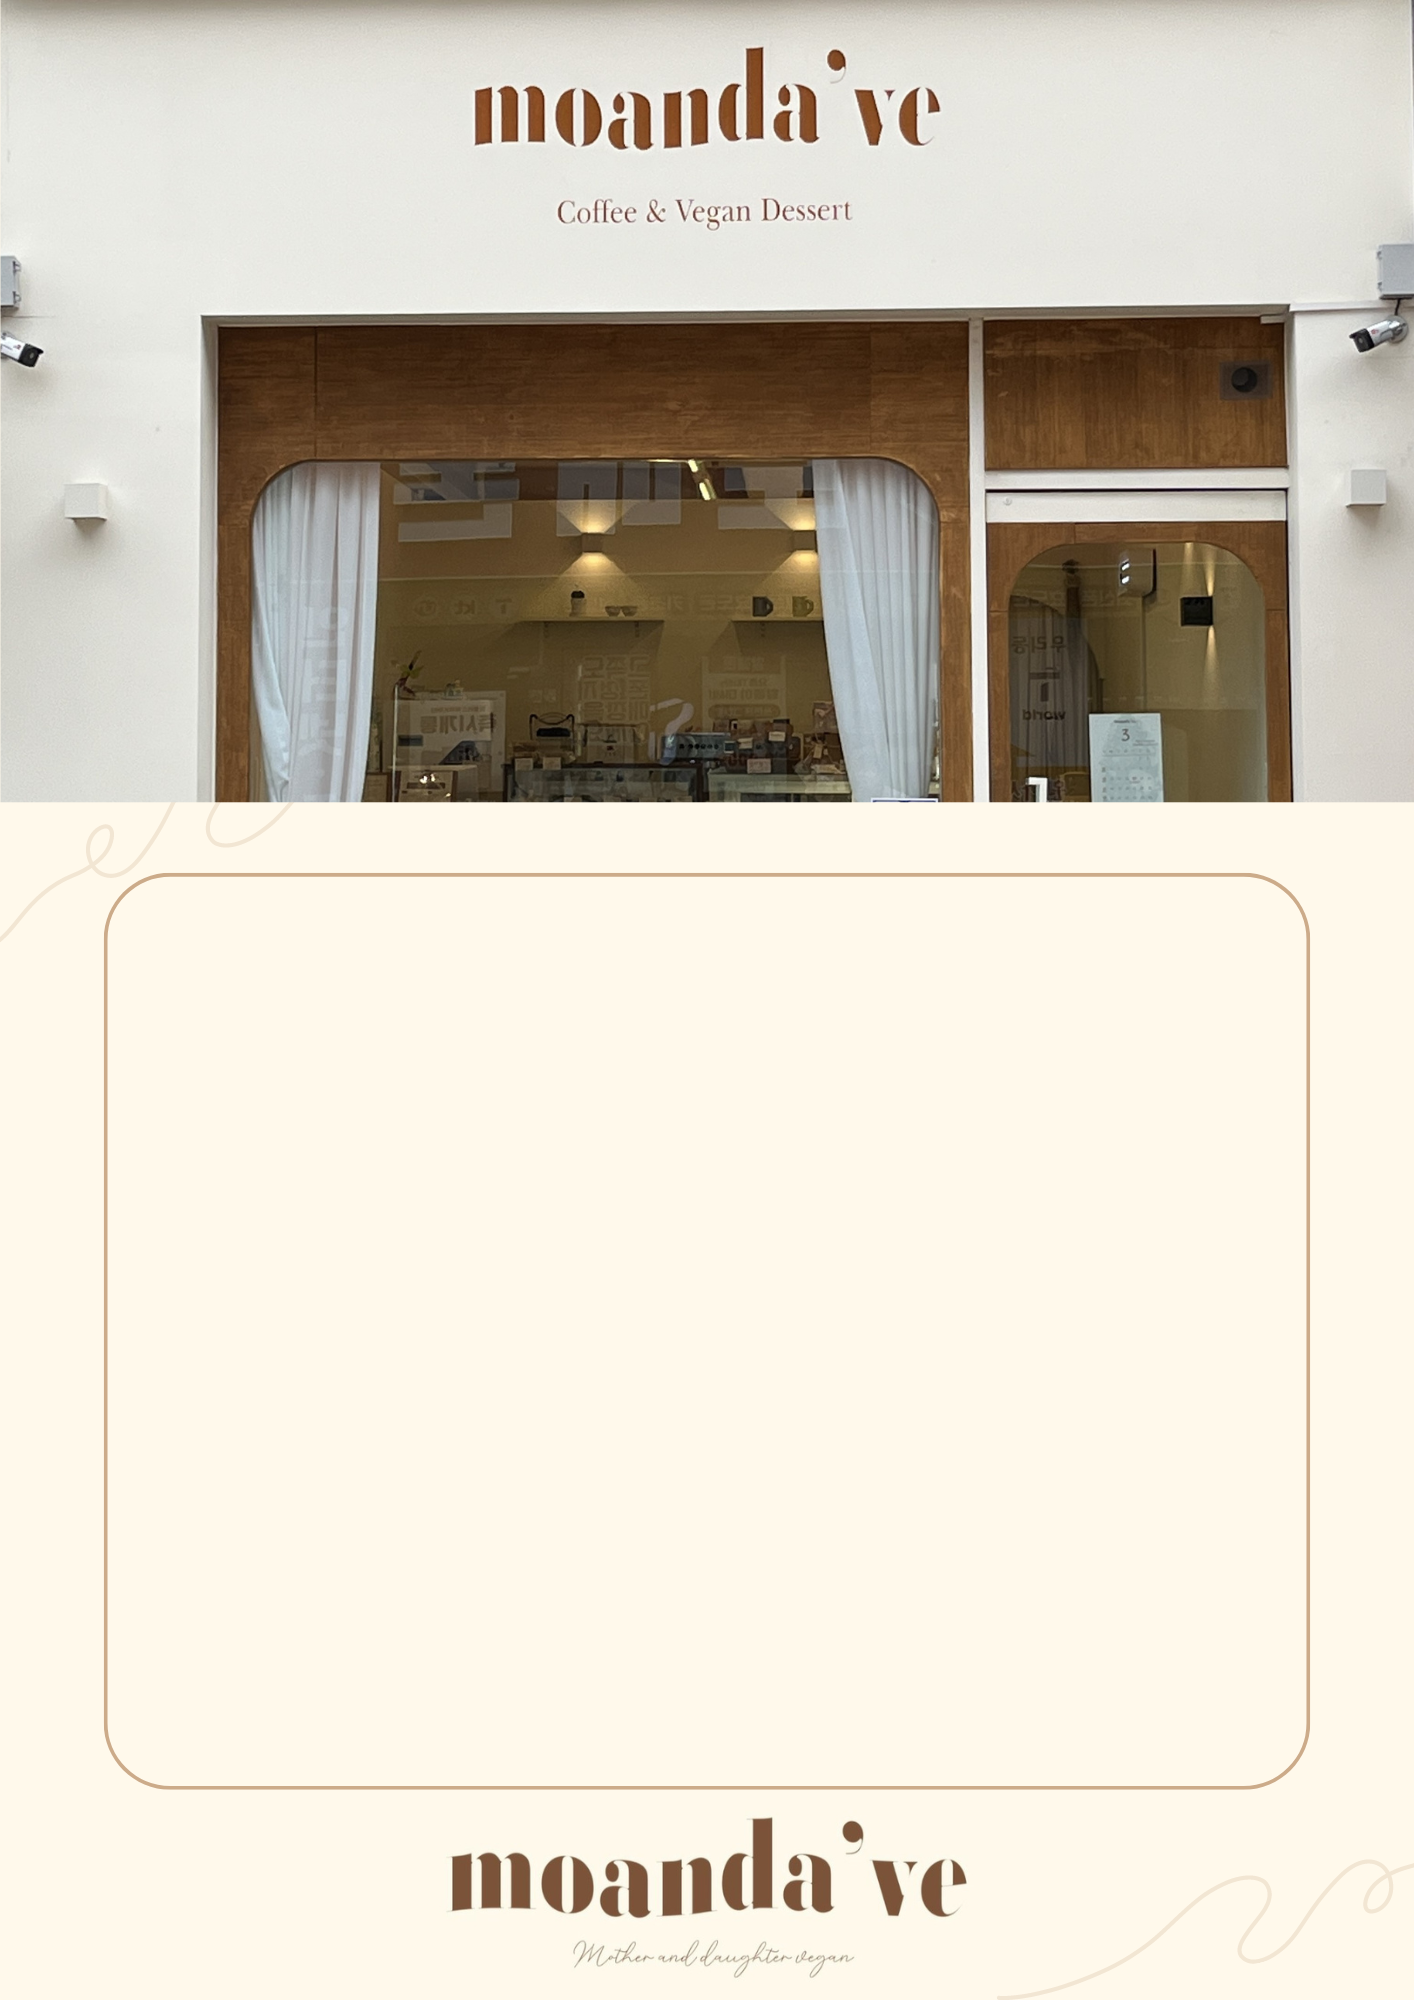
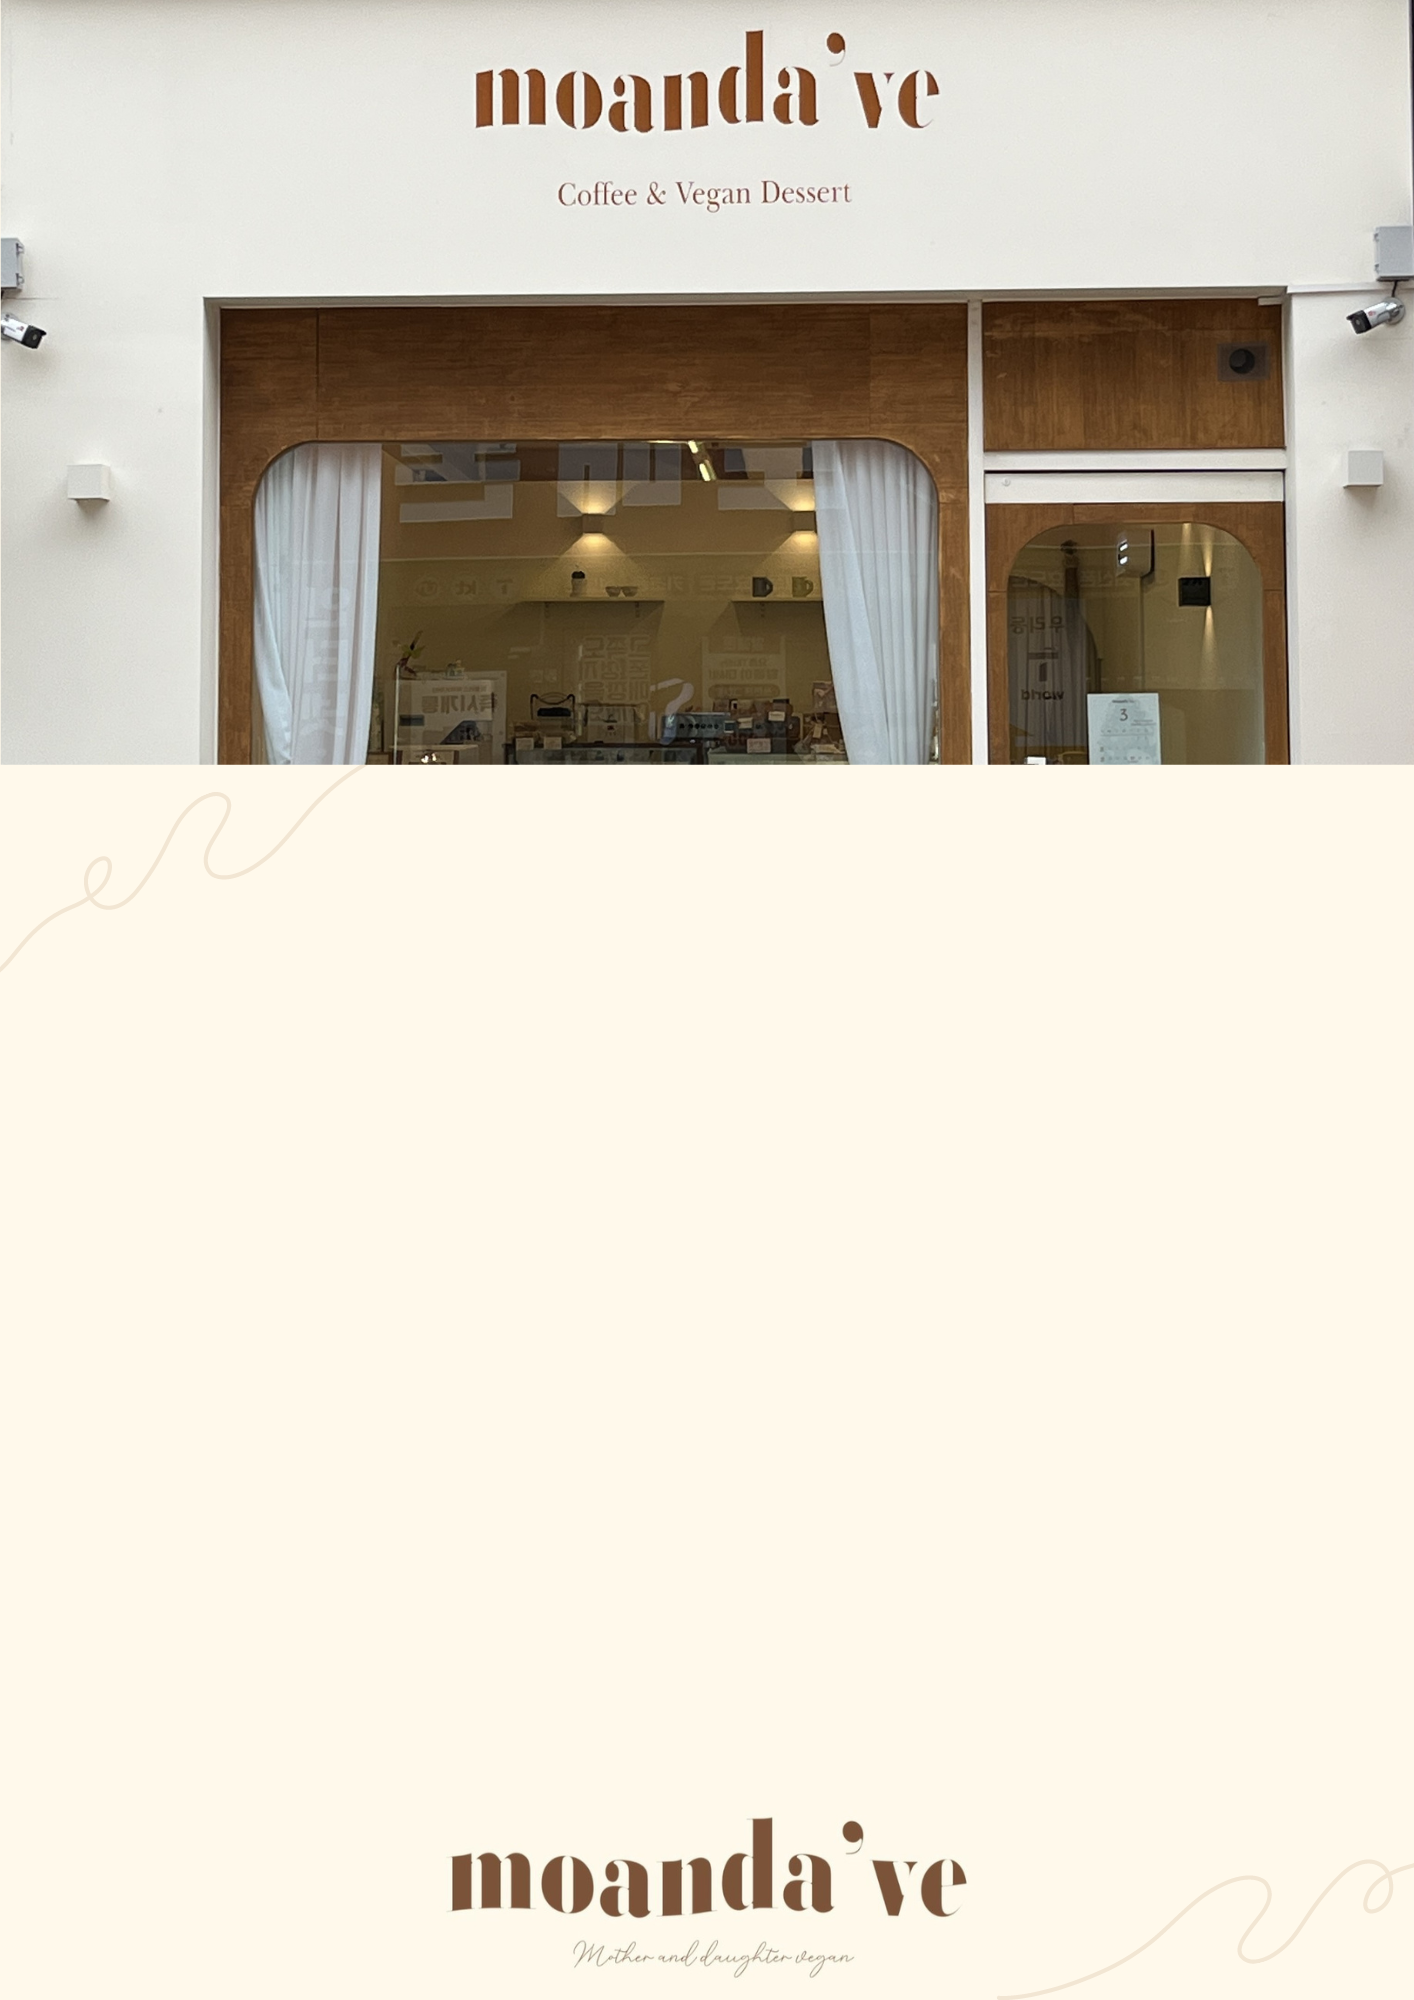
test: 이미지 해상도 테스트

Changed region(s): [[0.0, 0.0, 1.0, 0.403], [0.0311, 0.248, 0.0934, 0.279], [0.0, 0.124, 0.0311, 0.186]]

diff --git a/src/components/Gift/GiftForm/style.ts b/src/components/Gift/GiftForm/style.ts
@@ -7,10 +7,100 @@ export const GiftContainer = styled.div`
   flex-direction: column;
   justify-content: center;
   align-items: center;
+
   .poster {
-    max-width: 70%;
+    /* max-width: 100%; */
+    width: 100%;
     @media ${({ theme }) => theme.windowSize.medium} {
       max-width: 100%;
+    }
+  }
+`;
+
+export const ImageContainer = styled.div`
+  position: relative;
+  margin: 0 auto;
+  width: 70%;
+  min-height: 1000px;
+
+  .poster {
+    max-width: 100%;
+    @media ${({ theme }) => theme.windowSize.medium} {
+      max-width: 100%;
+    }
+  }
+  .content {
+    position: absolute;
+    top: 43%;
+    left: 50%;
+    transform: translateX(-50%);
+    width: 80%;
+    padding: 30px 40px;
+    border: 1px solid ${({ theme }) => theme.color.primary_normal};
+    border-style: dashed;
+    border-radius: 25px;
+    font-family: "NanumSquareNeo";
+
+    h2 {
+      text-align: center;
+      font-size: 24px;
+      color: ${({ theme }) => theme.color.primary_normal};
+      font-weight: 600;
+      margin-bottom: 30px;
+
+      @media ${({ theme }) => theme.windowSize.large} {
+        font-size: 22px;
+      }
+      @media ${({ theme }) => theme.windowSize.medium} {
+        font-size: 20px;
+      }
+    }
+
+    .notice-data {
+      display: flex;
+      flex-direction: column;
+      gap: 20px;
+      .box {
+        display: grid;
+        grid-template-columns: 120px 1fr;
+        align-items: center;
+        gap: 10px;
+
+        @media ${({ theme }) => theme.windowSize.large} {
+          grid-template-columns: 100px 1fr;
+        }
+        @media ${({ theme }) => theme.windowSize.medium} {
+          grid-template-columns: 80px 1fr;
+        }
+
+        .key {
+          color: #b1825e;
+          font-weight: 600;
+          font-size: 20px;
+          white-space: nowrap;
+          text-align: center;
+
+          @media ${({ theme }) => theme.windowSize.large} {
+            font-size: 18px;
+          }
+          @media ${({ theme }) => theme.windowSize.medium} {
+            font-size: 16px;
+          }
+        }
+        .value {
+          color: #666;
+          font-size: 16px;
+          word-break: keep-all;
+          line-height: 1.4;
+
+          @media ${({ theme }) => theme.windowSize.large} {
+            font-size: 14px;
+          }
+          @media ${({ theme }) => theme.windowSize.medium} {
+            font-size: 12px;
+          }
+        }
+      }
     }
   }
 `;

diff --git a/src/components/Gift/GiftForm/index.tsx b/src/components/Gift/GiftForm/index.tsx
@@ -1,9 +1,43 @@
 import * as S from "./style";
 import GiftItemList from "../GiftItemList";
+
+// const NoticeData = {
+//   주문방법: ["카카오톡채널 '모앤더비' or 전화 상담 가능"],
+//   주문기간: ["최소 2~3일 전 주문 가능"],
+//   스티커제작: ["상담 후 선택 가능(무료로 제공)"],
+//   보관방법: ["실온 2일 / 냉동 3주"],
+//   배송안내: [
+//     "수원지역 일부 배송 가능 / 택배, 퀵 서비스 가능",
+//     "토~월 도착은 퀵배송만 가능",
+//     "우체국택배 : 발송 후 1~2일 소요",
+//   ],
+//   취소안내: ["일대일 제작 상품이므로 취소가 어려운 점 참고 부탁드립니다."],
+//   "디저트 종류": ["홈페이지 '메뉴소개' 참고"],
+// };
+
 const GiftForm = () => {
   return (
     <S.GiftContainer>
-      <img src="./gift/poster.png" alt="안내포스터" className="poster" />
+      {/* <S.ImageContainer>
+        <img src="./gift/poster.png" alt="안내포스터" className="poster" />
+        <div className="content">
+          <h2>언제나 정성 가득 담은 모앤더비 답례품</h2>
+          <div className="notice-data">
+            {Object.entries(NoticeData).map(([key, value], index) => (
+              <div key={index} className="box">
+                <h3 className="key">{key}</h3>
+                <div className="value">
+                  {value.map((item, index) => (
+                    <p key={index}>{item}</p>
+                  ))}
+                </div>
+              </div>
+            ))}
+          </div>
+        </div>
+      </S.ImageContainer> */}
+      <img src="./gift/_poster.png" alt="안내포스터" className="poster" />
+
       <GiftItemList />
     </S.GiftContainer>
   );

diff --git a/src/App.css b/src/App.css
@@ -1,5 +1,6 @@
 html {
   scrollbar-width: none;
+  font-size: 16px;
 }
 
 body {
